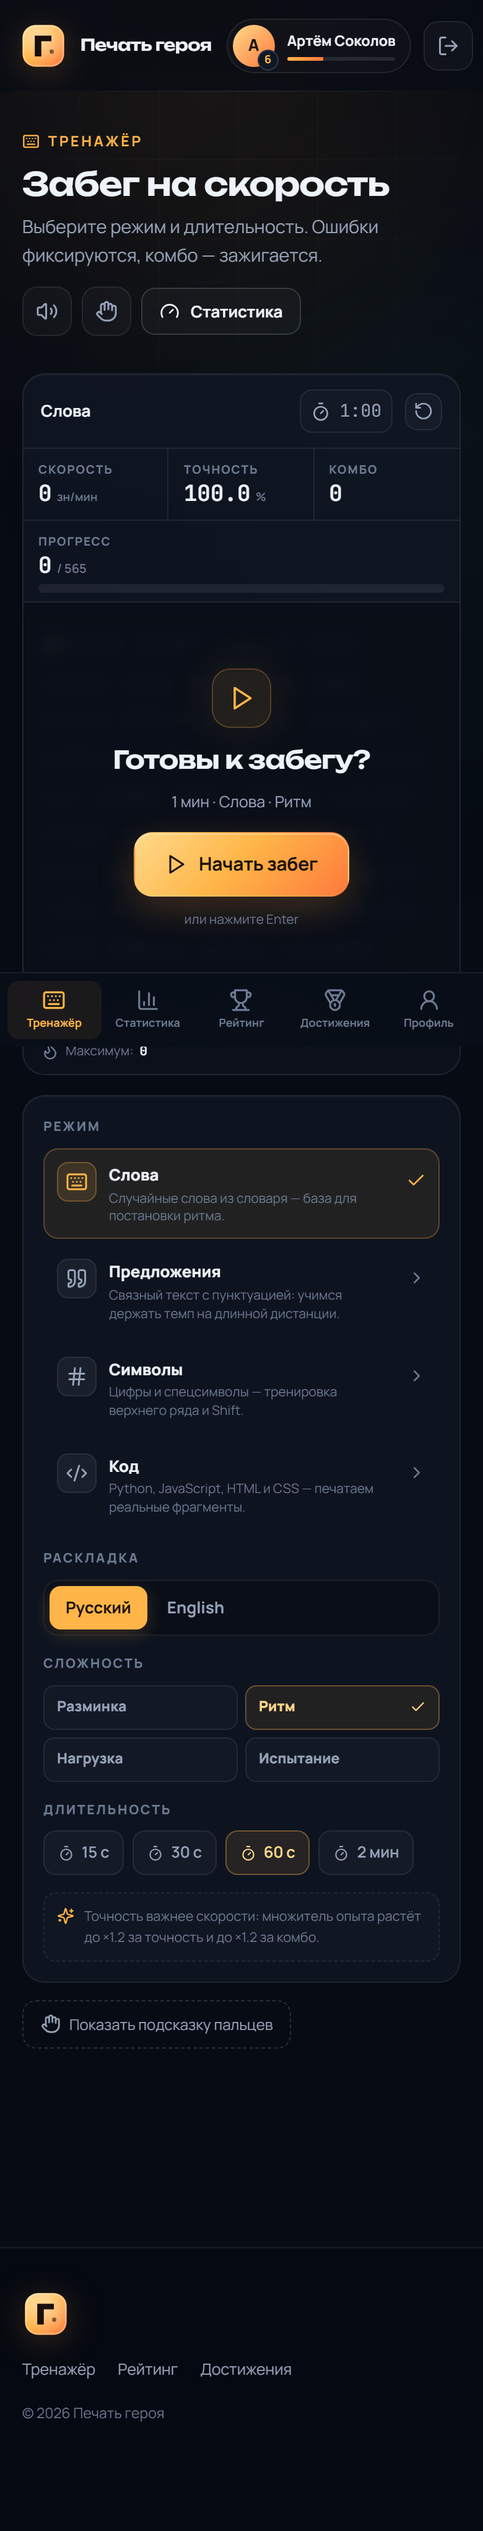
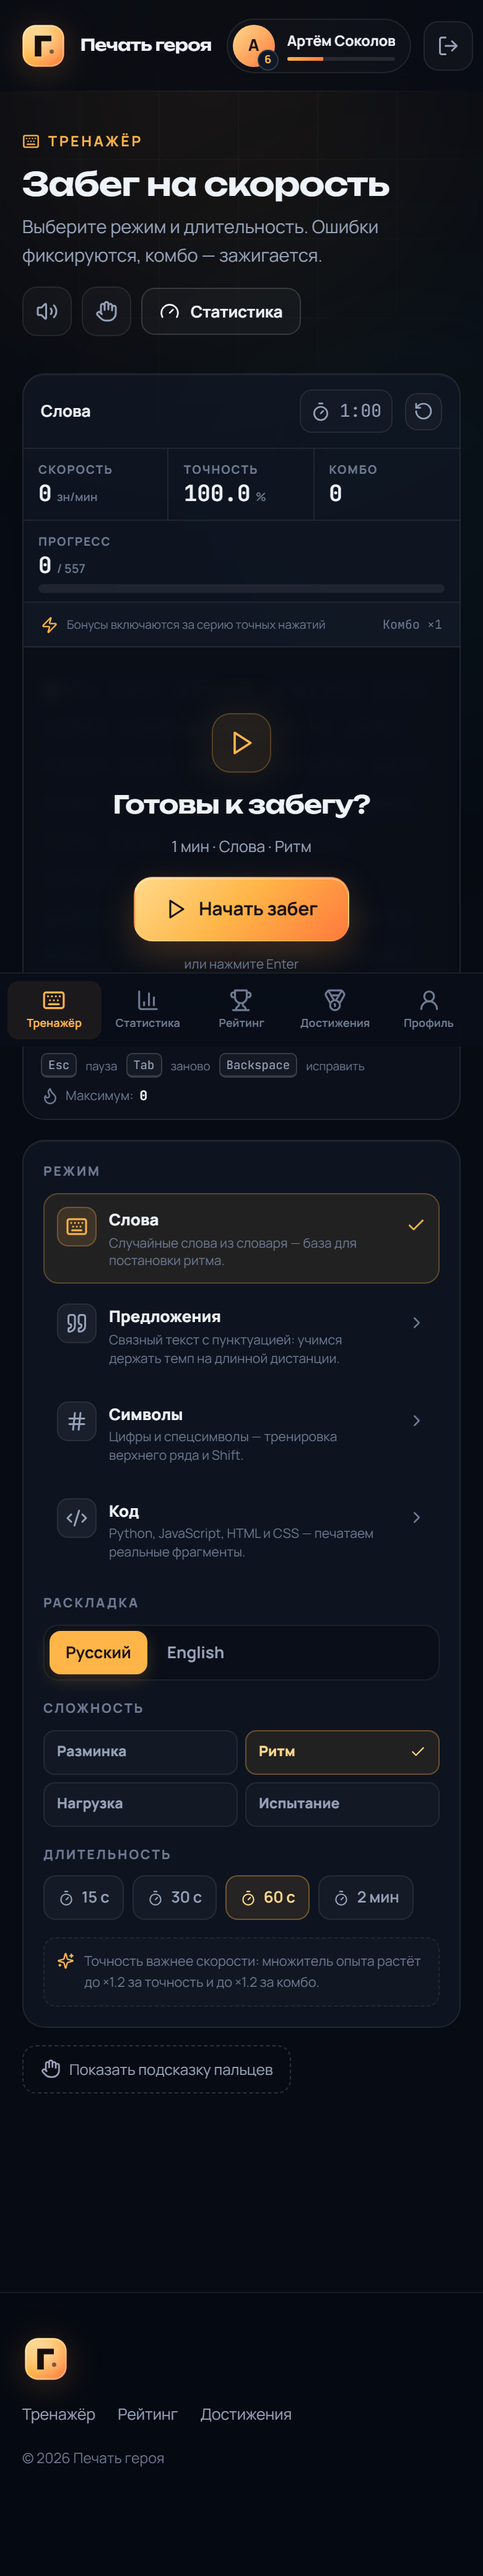
Тренажёр: статус бонуса над текстом и Tab-отступы в коде
- Бонус-уведомление вынесено в отдельную строку над полем печати и больше не перекрывает символы
- В режиме кода Tab автоматически добивает отступ текущей строки, F2 запускает новый текст
- Обновлены подсказки клавиш, звук отступа и README
- Обновлены скриншоты тренажёра

diff --git a/frontend/src/pages/Trainer.jsx b/frontend/src/pages/Trainer.jsx
@@ -29,7 +29,7 @@ import { Badge, Button, Modal, ProgressBar, Segmented, Skeleton } from '../compo
 import { api } from '../lib/api';
 import { useAuth } from '../lib/auth';
 import { sound } from '../lib/audio';
-import { formatDuration, formatNumber, formatTime } from '../lib/format';
+import { formatDuration, formatNumber, formatTime, plural } from '../lib/format';
 import { useToast } from '../lib/toast';
 
 const MODE_ICONS = { words: KeyboardIcon, sentences: Quote, symbols: Hash, code: Code2 };
@@ -359,6 +359,41 @@ export default function Trainer() {
     setView((value) => value + 1);
   }, []);
 
+  /** Tab в режиме кода: разом добивает отступ текущей строки. */
+  const typeIndentation = useCallback(() => {
+    const current = engine.current;
+    if (!exercise || current.finished) return;
+    const text = exercise.text;
+    const index = current.typed.length;
+    if (index >= text.length) return;
+
+    const lineStart = text.lastIndexOf('\n', index - 1) + 1;
+    for (let position = lineStart; position < index; position += 1) {
+      if (text[position] !== ' ') return;
+    }
+    if (text[index] !== ' ') return;
+
+    let indentEnd = index;
+    while (indentEnd < text.length && text[indentEnd] === ' ') indentEnd += 1;
+    const spaces = indentEnd - index;
+    if (spaces <= 0) return;
+
+    for (let step = 0; step < spaces; step += 1) {
+      current.typed.push({ char: ' ', typed: ' ', correct: true });
+      current.correct += 1;
+      current.combo += 1;
+      current.maxCombo = Math.max(current.maxCombo, current.combo);
+      if (current.correct >= current.nextBonusAt) triggerBonus();
+    }
+    sound.indent();
+
+    if (current.typed.length >= text.length) {
+      finishRef.current?.('complete');
+      return;
+    }
+    setView((value) => value + 1);
+  }, [exercise, triggerBonus]);
+
   // --- ввод с клавиатуры ------------------------------------------------
   useEffect(() => {
     if (status !== 'running') return undefined;
@@ -370,6 +405,15 @@ export default function Trainer() {
         return;
       }
       if (event.key === 'Tab') {
+        event.preventDefault();
+        if (settings.mode === 'code') {
+          typeIndentation();
+        } else {
+          restartRun();
+        }
+        return;
+      }
+      if (event.key === 'F2') {
         event.preventDefault();
         restartRun();
         return;
@@ -391,7 +435,7 @@ export default function Trainer() {
     };
     window.addEventListener('keydown', onKeyDown);
     return () => window.removeEventListener('keydown', onKeyDown);
-  }, [status, pauseRun, restartRun, backspace, typeChar]);
+  }, [status, pauseRun, restartRun, backspace, typeChar, typeIndentation, settings.mode]);
 
   useEffect(() => {
     if (status !== 'idle' || !exercise) return undefined;
@@ -682,6 +726,41 @@ export default function Trainer() {
             </div>
           </div>
 
+          <div className={`bonus-strip ${bonus && status === 'running' ? 'is-active' : ''}`}>
+            {bonus && status === 'running' ? (
+              <>
+                <span className="bonus-strip__icon">
+                  <bonus.icon size={15} />
+                </span>
+                <strong>{bonus.label}</strong>
+                <span className="bonus-strip__note">{bonus.note}</span>
+                <span className="bonus-strip__timer">{bonusLeft} с</span>
+              </>
+            ) : (
+              <>
+                <span className="bonus-strip__icon">
+                  <Zap size={14} />
+                </span>
+                <span className="bonus-strip__text">
+                  {status === 'running' ? (
+                    <>
+                      До бонуса:{' '}
+                      <strong>{Math.max(0, current.nextBonusAt - current.correct)}</strong>{' '}
+                      {plural(Math.max(0, current.nextBonusAt - current.correct), [
+                        'точное нажатие',
+                        'точных нажатия',
+                        'точных нажатий',
+                      ])}
+                    </>
+                  ) : (
+                    'Бонусы включаются за серию точных нажатий'
+                  )}
+                </span>
+                <span className="bonus-strip__combo">Комбо ×{comboMultiplier}</span>
+              </>
+            )}
+          </div>
+
           <div className="stage__text-area">
             {loadingText ? (
               <div className="typing typing--loading">
@@ -734,7 +813,9 @@ export default function Trainer() {
                 <Button size="lg" onClick={startRun} icon={Play}>
                   Начать забег
                 </Button>
-                <span className="overlay__hint">или нажмите Enter</span>
+                <span className="overlay__hint">
+                  {settings.mode === 'code' ? 'Enter — старт · Tab — отступ' : 'или нажмите Enter'}
+                </span>
               </div>
             ) : null}
 
@@ -750,24 +831,21 @@ export default function Trainer() {
                 </Button>
               </div>
             ) : null}
-
-            {bonus && status === 'running' ? (
-              <div className="bonus-toast">
-                <span className="bonus-toast__icon">
-                  <bonus.icon size={16} />
-                </span>
-                <div>
-                  <strong>{bonus.label}</strong>
-                  <span>{bonus.note} · {bonusLeft} с</span>
-                </div>
-              </div>
-            ) : null}
           </div>
 
           <div className="stage__bottom">
             <span className="stage__hint">
               <kbd>Esc</kbd> пауза
-              <kbd>Tab</kbd> заново
+              {settings.mode === 'code' ? (
+                <>
+                  <kbd>Tab</kbd> отступ
+                  <kbd>F2</kbd> заново
+                </>
+              ) : (
+                <>
+                  <kbd>Tab</kbd> заново
+                </>
+              )}
               <kbd>Backspace</kbd> исправить
             </span>
             <div className="stage__streak">
@@ -783,7 +861,7 @@ export default function Trainer() {
           <Keyboard layout={keyboardLayout} nextChar={status === 'running' ? nextChar : exercise?.text[0] || ''} />
           {settings.mode === 'code' ? (
             <p className="trainer__keyboard-note">
-              <Code2 size={14} /> Фрагменты кода печатаются в английской раскладке.
+              <Code2 size={14} /> Код печатается в английской раскладке. Tab автоматически ставит отступ строки.
             </p>
           ) : null}
         </div>

diff --git a/frontend/src/styles.css b/frontend/src/styles.css
@@ -2429,41 +2429,66 @@ svg {
   margin-top: 2px;
 }
 
-.bonus-toast {
-  position: absolute;
-  top: 12px;
-  right: 20px;
-  z-index: 5;
+.bonus-strip {
   display: flex;
   align-items: center;
-  gap: 10px;
-  padding: 9px 13px;
-  border-radius: 12px;
-  border: 1px solid rgba(255, 181, 71, 0.35);
-  background: rgba(45, 32, 14, 0.94);
-  box-shadow: 0 12px 30px rgba(0, 0, 0, 0.4), 0 0 30px rgba(255, 181, 71, 0.12);
-  animation: slideIn 0.25s ease both;
-}
-.bonus-toast__icon {
-  width: 30px;
-  height: 30px;
-  display: grid;
-  place-items: center;
-  border-radius: 9px;
-  color: var(--amber);
-  background: rgba(255, 181, 71, 0.15);
-}
-.bonus-toast div {
-  display: flex;
-  flex-direction: column;
-  line-height: 1.35;
-}
-.bonus-toast strong {
-  font-size: 12px;
-}
-.bonus-toast span {
+  gap: 9px;
+  height: 36px;
+  flex: none;
+  padding: 0 18px;
+  border-bottom: 1px solid var(--line);
+  background: rgba(255, 255, 255, 0.014);
+  color: var(--muted-2);
   font-size: 10.5px;
-  color: var(--muted);
+  overflow: hidden;
+  transition: background 0.25s ease, color 0.25s ease;
+}
+.bonus-strip.is-active {
+  background: linear-gradient(90deg, rgba(255, 181, 71, 0.14), rgba(255, 122, 61, 0.04) 62%, transparent);
+  color: #ffdca4;
+}
+.bonus-strip__icon {
+  display: flex;
+  align-items: center;
+  color: var(--amber);
+  flex: none;
+}
+.bonus-strip.is-active .bonus-strip__icon {
+  animation: pulse 1.6s ease-in-out infinite;
+}
+.bonus-strip strong {
+  font-size: 11px;
+  color: var(--amber-soft);
+  white-space: nowrap;
+}
+.bonus-strip__text {
+  white-space: nowrap;
+  overflow: hidden;
+  text-overflow: ellipsis;
+}
+.bonus-strip__text strong {
+  font-family: var(--font-mono);
+  font-weight: 600;
+}
+.bonus-strip__note {
+  color: rgba(255, 220, 164, 0.72);
+  white-space: nowrap;
+  overflow: hidden;
+  text-overflow: ellipsis;
+}
+.bonus-strip__timer {
+  margin-left: auto;
+  font-family: var(--font-mono);
+  font-size: 10.5px;
+  color: var(--amber);
+  flex: none;
+}
+.bonus-strip__combo {
+  margin-left: auto;
+  font-family: var(--font-mono);
+  font-size: 10px;
+  color: var(--muted-2);
+  flex: none;
 }
 
 .stage__bottom {
@@ -4915,6 +4940,16 @@ svg {
     align-items: flex-start;
     gap: 6px;
     padding: 10px 14px;
+  }
+  .bonus-strip {
+    padding: 0 14px;
+    gap: 7px;
+  }
+  .bonus-strip__note {
+    display: none;
+  }
+  .bonus-strip__text {
+    font-size: 9.5px;
   }
   .stage__hint {
     font-size: 9.5px;

diff --git a/frontend/src/lib/audio.js b/frontend/src/lib/audio.js
@@ -56,6 +56,11 @@ class SoundEngine {
     this.tone(base * 1.5, 0.06, { type: 'sine', gain: 0.3, delay: 0.04 });
   }
 
+  indent() {
+    this.tone(660, 0.04, { type: 'triangle', gain: 0.35 });
+    this.tone(990, 0.05, { type: 'triangle', gain: 0.3, delay: 0.035 });
+  }
+
   bonus() {
     [523.25, 659.25, 783.99, 1046.5].forEach((frequency, index) => {
       this.tone(frequency, 0.12, { type: 'triangle', gain: 0.55, delay: index * 0.06 });

diff --git a/README.md b/README.md
@@ -24,7 +24,8 @@
 - **Подсветка ввода:** правильные символы, ошибки, текущая позиция с мигающим курсором.
 - **Клавиатурная подсказка:** следующая клавиша, Shift при необходимости и палец, которым нужно нажать.
 - **Звуки:** клики, сигнал ошибки, комбо, бонус и финиш — синтезируются через Web Audio, без аудиофайлов.
-- **Управление:** `Enter` — старт, `Esc` — пауза, `Tab` — новый текст, `Backspace` — исправить символ.
+- **Управление:** `Enter` — старт, `Esc` — пауза, `Tab` — новый текст (в режиме кода — автоматический
+  отступ строки), `F2` — новый текст в режиме кода, `Backspace` — исправить символ.
   При уходе со страницы забег автоматически ставится на паузу.
 - **Адаптивность:** отдельные раскладки для десктопа, планшета и телефона.
 
@@ -39,7 +40,8 @@
   на 3, «Испытание» — на 4.
 - **20 достижений** с прогрессом, бронзовым/серебряным/золотым/легендарным тиром и опытом за получение.
 - **Бонусы во время забега:** «Двойной опыт», «Золотой поток», «Порыв скорости» — действуют 10 секунд
-  и отмечаются в результатах.
+  и отмечаются в результатах. Статус бонуса живёт в отдельной строке над текстом и никогда не
+  перекрывает символы.
 - **Таблица лидеров** по скорости, точности и опыту за сегодня, неделю или всё время.
 - **Ежедневная цель** 3 000 символов, серия дней и календарь активности за 12 недель.
 
